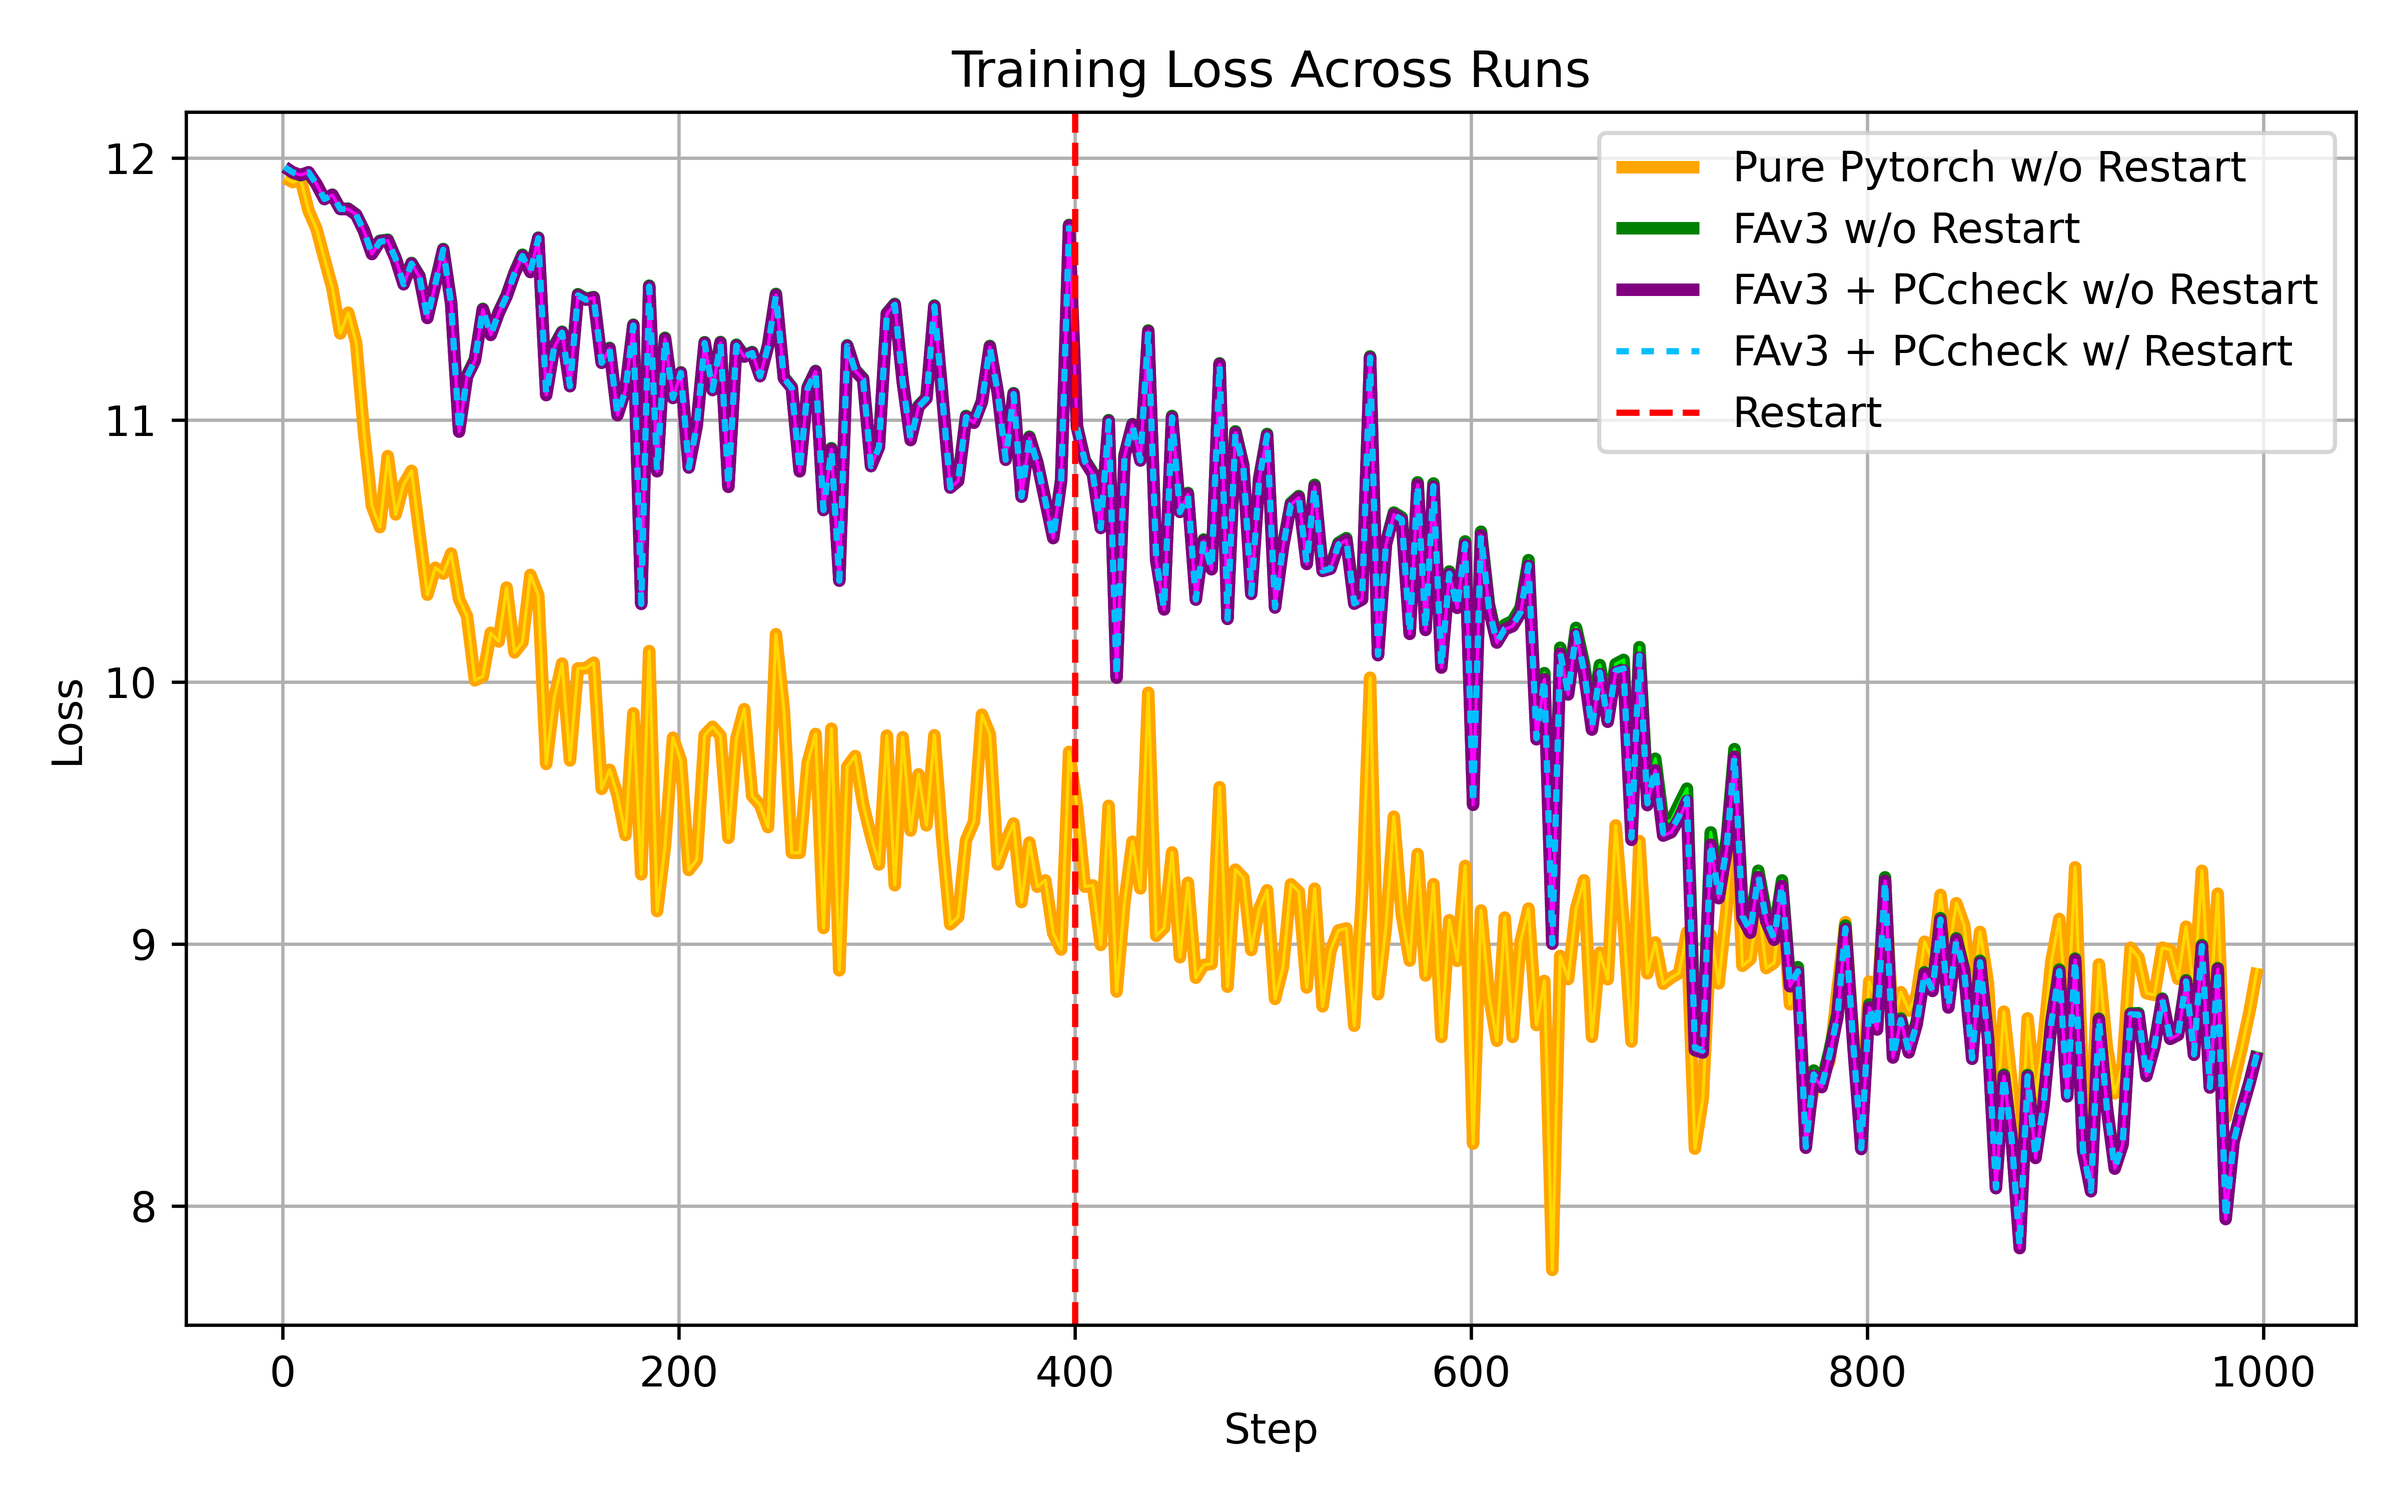
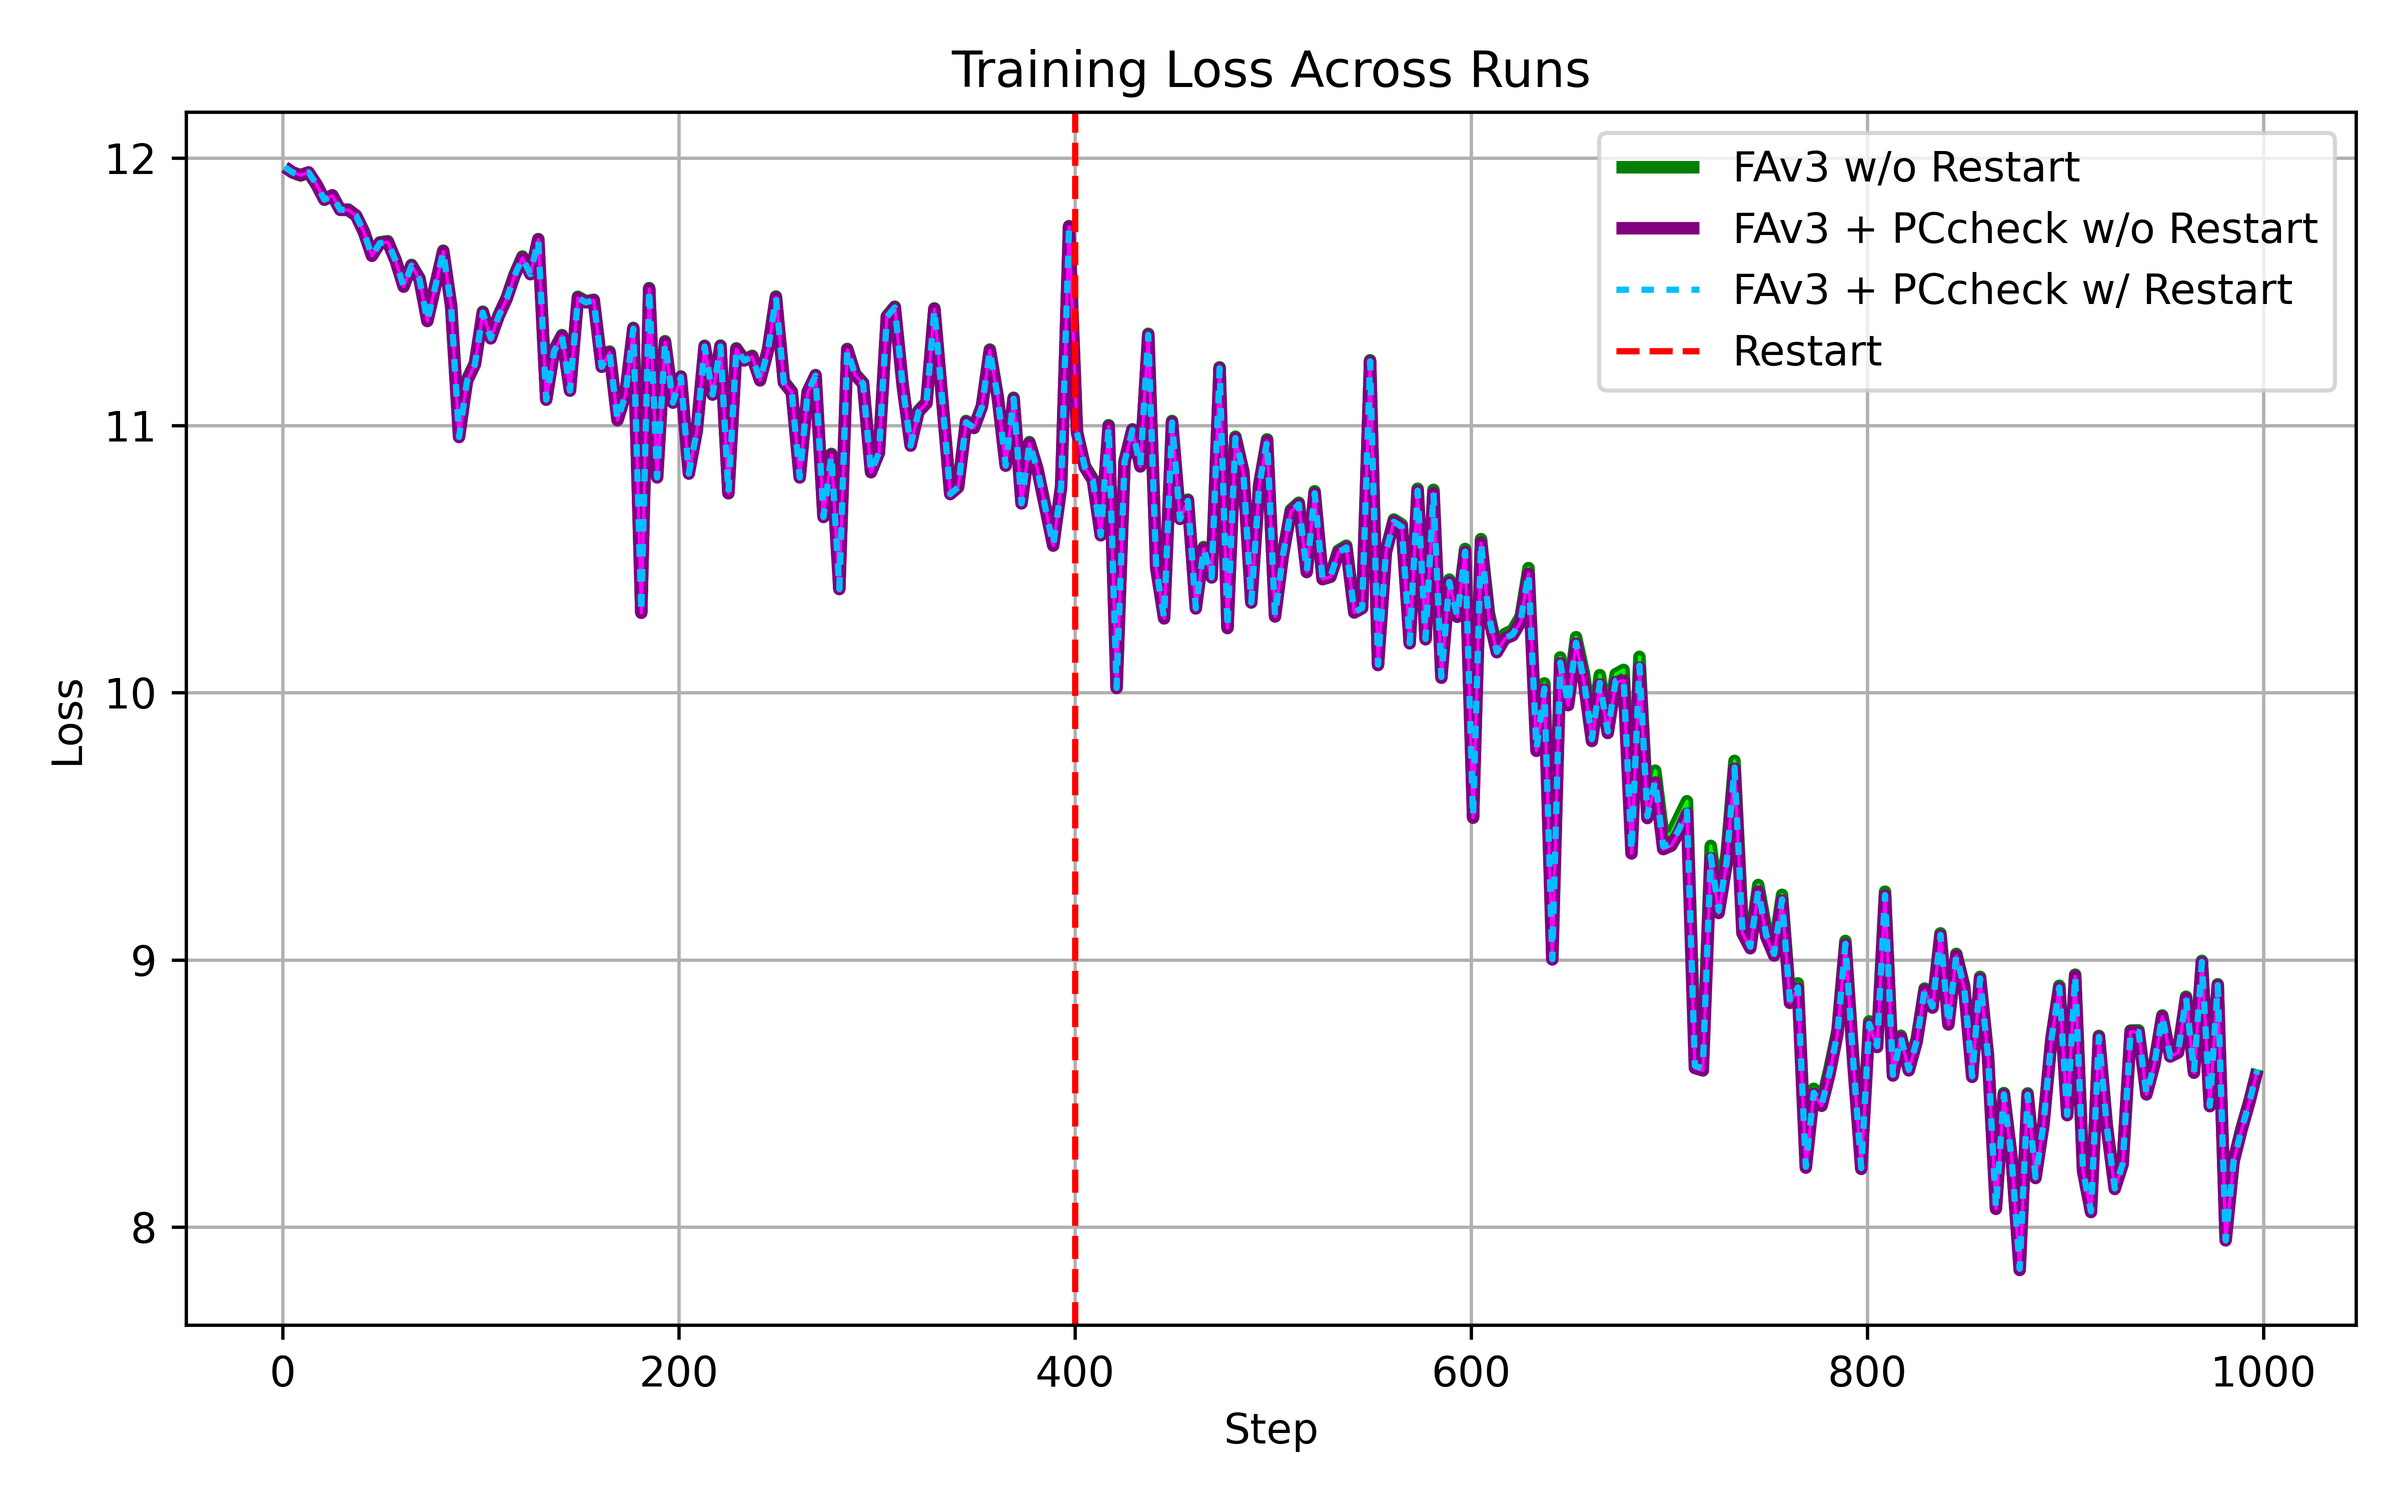
updated loss curves

Changed region(s): [[0.0312, 0.093, 0.9688, 0.837], [0.6562, 0.186, 0.7188, 0.217]]

diff --git a/results/plot_loss.py b/results/plot_loss.py
@@ -15,8 +15,8 @@ def plt_loss_curves(seq_len, plot_extended=False):
     
     csv_files_to_style = {
         # CSV File Name:                                    ( Color,        lw,     Label)
-        f"bf16/valid-base-torch-{seq_len}-1.csv":           ('orange',      3.00,   "Pure Pytorch w/o Restart"),
-        f"bf16/valid-base-torch-{seq_len}-2.csv":           ('gold',        0.75,   None),
+        # f"bf16/valid-base-torch-{seq_len}-1.csv":           ('orange',      3.00,   "Pure Pytorch w/o Restart"),
+        # f"bf16/valid-base-torch-{seq_len}-2.csv":           ('gold',        0.75,   None),
         f"bf16/valid-base-flash-{seq_len}-1.csv":           ('green',       3.00,   "FAv3 w/o Restart"),
         f"bf16/valid-base-flash-{seq_len}-2.csv":           ('lime',        0.75,   None),
         f"bf16/valid-pccheck-flash-{seq_len}-1.csv":        ('purple',      3.00,   "FAv3 + PCcheck w/o Restart"),
